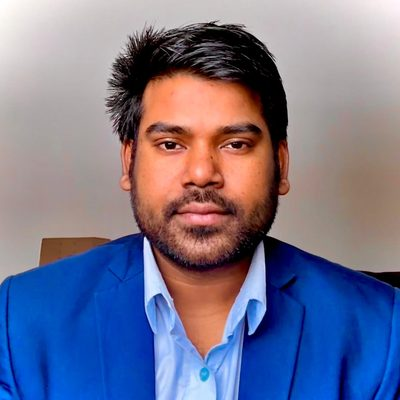
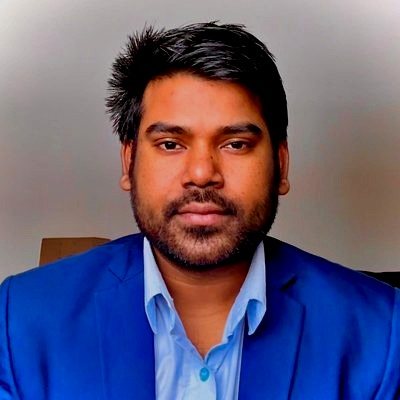
Improve profile photo and remove artificial brightness filter
Reduced exposure on profile.jpg/webp (brightness -20%, contrast +20%, saturation +12%, sharpness +10%) to fix the overexposed look. Removed the CSS brightness(1.18) filter from .av and .av-lg classes that was compounding the issue. Bump version stamp to 202607011428.

diff --git a/404.html b/404.html
@@ -19,7 +19,7 @@
 <link rel="preconnect" href="https://fonts.gstatic.com" crossorigin/>
 <link href="https://fonts.googleapis.com/css2?family=Inter:wght@300;400;500;600&family=Sora:wght@600;700&display=swap" rel="stylesheet"/>
 <link rel="stylesheet" href="https://cdn.jsdelivr.net/npm/@tabler/icons-webfont@3.44.0/dist/tabler-icons.min.css"/>
-<link rel="stylesheet" href="/style.css?v=202606300232"/>
+<link rel="stylesheet" href="/style.css?v=202607011428"/>
 <script>(function(){document.documentElement.setAttribute('data-theme',localStorage.getItem('dk-theme')||'dark');})();</script>
 </head>
 <body>
@@ -161,6 +161,6 @@
   <button class="bnav" id="bnav-more"><i class="ti ti-menu-2"></i><span>More</span></button>
 </nav>
 
-<script src="/main.js?v=202606300232"></script>
+<script src="/main.js?v=202607011428"></script>
 </body>
 </html>

diff --git a/agnicycle/index.html b/agnicycle/index.html
@@ -29,7 +29,7 @@
 <link rel="preconnect" href="https://fonts.gstatic.com" crossorigin/>
 <link href="https://fonts.googleapis.com/css2?family=Inter:wght@300;400;500;600&family=Sora:wght@600;700&display=swap" rel="stylesheet"/>
 <link rel="stylesheet" href="https://cdn.jsdelivr.net/npm/@tabler/icons-webfont@3.44.0/dist/tabler-icons.min.css"/>
-<link rel="stylesheet" href="/style.css?v=202606300232"/>
+<link rel="stylesheet" href="/style.css?v=202607011428"/>
 <script>(function(){document.documentElement.setAttribute('data-theme',localStorage.getItem('dk-theme')||'dark');})();</script>
 </head>
 <body>
@@ -217,6 +217,6 @@
   <button class="bnav" id="bnav-more"><i class="ti ti-menu-2"></i><span>More</span></button>
 </nav>
 
-<script src="/main.js?v=202606300232"></script>
+<script src="/main.js?v=202607011428"></script>
 </body>
 </html>

diff --git a/awards/index.html b/awards/index.html
@@ -29,7 +29,7 @@
 <link rel="preconnect" href="https://fonts.gstatic.com" crossorigin/>
 <link href="https://fonts.googleapis.com/css2?family=Inter:wght@300;400;500;600&family=Sora:wght@600;700&display=swap" rel="stylesheet"/>
 <link rel="stylesheet" href="https://cdn.jsdelivr.net/npm/@tabler/icons-webfont@3.44.0/dist/tabler-icons.min.css"/>
-<link rel="stylesheet" href="/style.css?v=202606300232"/>
+<link rel="stylesheet" href="/style.css?v=202607011428"/>
 <script>(function(){document.documentElement.setAttribute('data-theme',localStorage.getItem('dk-theme')||'dark');})();</script>
 </head>
 <body>
@@ -175,6 +175,6 @@
   <button class="bnav" id="bnav-more"><i class="ti ti-menu-2"></i><span>More</span></button>
 </nav>
 
-<script src="/main.js?v=202606300232"></script>
+<script src="/main.js?v=202607011428"></script>
 </body>
 </html>

diff --git a/collaborate/index.html b/collaborate/index.html
@@ -29,7 +29,7 @@
 <link rel="preconnect" href="https://fonts.gstatic.com" crossorigin/>
 <link href="https://fonts.googleapis.com/css2?family=Inter:wght@300;400;500;600&family=Sora:wght@600;700&display=swap" rel="stylesheet"/>
 <link rel="stylesheet" href="https://cdn.jsdelivr.net/npm/@tabler/icons-webfont@3.44.0/dist/tabler-icons.min.css"/>
-<link rel="stylesheet" href="/style.css?v=202606300232"/>
+<link rel="stylesheet" href="/style.css?v=202607011428"/>
 <script>(function(){document.documentElement.setAttribute('data-theme',localStorage.getItem('dk-theme')||'dark');})();</script>
 </head>
 <body>
@@ -211,6 +211,6 @@
   <button class="bnav" id="bnav-more"><i class="ti ti-menu-2"></i><span>More</span></button>
 </nav>
 
-<script src="/main.js?v=202606300232"></script>
+<script src="/main.js?v=202607011428"></script>
 </body>
 </html>

diff --git a/contact/index.html b/contact/index.html
@@ -29,7 +29,7 @@
 <link rel="preconnect" href="https://fonts.gstatic.com" crossorigin/>
 <link href="https://fonts.googleapis.com/css2?family=Inter:wght@300;400;500;600&family=Sora:wght@600;700&display=swap" rel="stylesheet"/>
 <link rel="stylesheet" href="https://cdn.jsdelivr.net/npm/@tabler/icons-webfont@3.44.0/dist/tabler-icons.min.css"/>
-<link rel="stylesheet" href="/style.css?v=202606300232"/>
+<link rel="stylesheet" href="/style.css?v=202607011428"/>
 <script>(function(){document.documentElement.setAttribute('data-theme',localStorage.getItem('dk-theme')||'dark');})();</script>
 </head>
 <body>
@@ -214,7 +214,7 @@
   <button class="bnav" id="bnav-more"><i class="ti ti-menu-2"></i><span>More</span></button>
 </nav>
 
-<script src="/main.js?v=202606300232"></script>
+<script src="/main.js?v=202607011428"></script>
 <script>
 (function(){
   const form=document.getElementById('contact-form');

diff --git a/experience/index.html b/experience/index.html
@@ -29,7 +29,7 @@
 <link rel="preconnect" href="https://fonts.gstatic.com" crossorigin/>
 <link href="https://fonts.googleapis.com/css2?family=Inter:wght@300;400;500;600&family=Sora:wght@600;700&display=swap" rel="stylesheet"/>
 <link rel="stylesheet" href="https://cdn.jsdelivr.net/npm/@tabler/icons-webfont@3.44.0/dist/tabler-icons.min.css"/>
-<link rel="stylesheet" href="/style.css?v=202606300232"/>
+<link rel="stylesheet" href="/style.css?v=202607011428"/>
 <script>(function(){document.documentElement.setAttribute('data-theme',localStorage.getItem('dk-theme')||'dark');})();</script>
 </head>
 <body>
@@ -223,6 +223,6 @@
   <button class="bnav" id="bnav-more"><i class="ti ti-menu-2"></i><span>More</span></button>
 </nav>
 
-<script src="/main.js?v=202606300232"></script>
+<script src="/main.js?v=202607011428"></script>
 </body>
 </html>

diff --git a/index.html b/index.html
@@ -29,7 +29,7 @@
 <link rel="preconnect" href="https://fonts.gstatic.com" crossorigin/>
 <link href="https://fonts.googleapis.com/css2?family=Inter:wght@300;400;500;600&family=Sora:wght@600;700&display=swap" rel="stylesheet"/>
 <link rel="stylesheet" href="https://cdn.jsdelivr.net/npm/@tabler/icons-webfont@3.44.0/dist/tabler-icons.min.css"/>
-<link rel="stylesheet" href="/style.css?v=202606300232"/>
+<link rel="stylesheet" href="/style.css?v=202607011428"/>
 <script>(function(){document.documentElement.setAttribute('data-theme',localStorage.getItem('dk-theme')||'dark');})();</script>
 <script type="application/ld+json">
 {
@@ -316,7 +316,7 @@
   <button class="bnav" id="bnav-more"><i class="ti ti-menu-2"></i><span>More</span></button>
 </nav>
 
-<script src="/main.js?v=202606300232"></script>
+<script src="/main.js?v=202607011428"></script>
 <script>
 // Research graph interaction (home page only) — mouse + touch
 (function(){

diff --git a/misc/index.html b/misc/index.html
@@ -29,7 +29,7 @@
 <link rel="preconnect" href="https://fonts.gstatic.com" crossorigin/>
 <link href="https://fonts.googleapis.com/css2?family=Inter:wght@300;400;500;600&family=Sora:wght@600;700&display=swap" rel="stylesheet"/>
 <link rel="stylesheet" href="https://cdn.jsdelivr.net/npm/@tabler/icons-webfont@3.44.0/dist/tabler-icons.min.css"/>
-<link rel="stylesheet" href="/style.css?v=202606300232"/>
+<link rel="stylesheet" href="/style.css?v=202607011428"/>
 <script>(function(){document.documentElement.setAttribute('data-theme',localStorage.getItem('dk-theme')||'dark');})();</script>
 </head>
 <body>
@@ -202,6 +202,6 @@
   <button class="bnav" id="bnav-more"><i class="ti ti-menu-2"></i><span>More</span></button>
 </nav>
 
-<script src="/main.js?v=202606300232"></script>
+<script src="/main.js?v=202607011428"></script>
 </body>
 </html>

diff --git a/phd/index.html b/phd/index.html
@@ -29,7 +29,7 @@
 <link rel="preconnect" href="https://fonts.gstatic.com" crossorigin/>
 <link href="https://fonts.googleapis.com/css2?family=Inter:wght@300;400;500;600&family=Sora:wght@600;700&display=swap" rel="stylesheet"/>
 <link rel="stylesheet" href="https://cdn.jsdelivr.net/npm/@tabler/icons-webfont@3.44.0/dist/tabler-icons.min.css"/>
-<link rel="stylesheet" href="/style.css?v=202606300232"/>
+<link rel="stylesheet" href="/style.css?v=202607011428"/>
 <script>(function(){document.documentElement.setAttribute('data-theme',localStorage.getItem('dk-theme')||'dark');})();</script>
 </head>
 <body>
@@ -200,6 +200,6 @@
   <button class="bnav" id="bnav-more"><i class="ti ti-menu-2"></i><span>More</span></button>
 </nav>
 
-<script src="/main.js?v=202606300232"></script>
+<script src="/main.js?v=202607011428"></script>
 </body>
 </html>

diff --git a/projects/index.html b/projects/index.html
@@ -29,7 +29,7 @@
 <link rel="preconnect" href="https://fonts.gstatic.com" crossorigin/>
 <link href="https://fonts.googleapis.com/css2?family=Inter:wght@300;400;500;600&family=Sora:wght@600;700&display=swap" rel="stylesheet"/>
 <link rel="stylesheet" href="https://cdn.jsdelivr.net/npm/@tabler/icons-webfont@3.44.0/dist/tabler-icons.min.css"/>
-<link rel="stylesheet" href="/style.css?v=202606300232"/>
+<link rel="stylesheet" href="/style.css?v=202607011428"/>
 <script>(function(){document.documentElement.setAttribute('data-theme',localStorage.getItem('dk-theme')||'dark');})();</script>
 </head>
 <body>
@@ -203,6 +203,6 @@
   <button class="bnav" id="bnav-more"><i class="ti ti-menu-2"></i><span>More</span></button>
 </nav>
 
-<script src="/main.js?v=202606300232"></script>
+<script src="/main.js?v=202607011428"></script>
 </body>
 </html>

diff --git a/publications/index.html b/publications/index.html
@@ -29,7 +29,7 @@
 <link rel="preconnect" href="https://fonts.gstatic.com" crossorigin/>
 <link href="https://fonts.googleapis.com/css2?family=Inter:wght@300;400;500;600&family=Sora:wght@600;700&display=swap" rel="stylesheet"/>
 <link rel="stylesheet" href="https://cdn.jsdelivr.net/npm/@tabler/icons-webfont@3.44.0/dist/tabler-icons.min.css"/>
-<link rel="stylesheet" href="/style.css?v=202606300232"/>
+<link rel="stylesheet" href="/style.css?v=202607011428"/>
 <script>(function(){document.documentElement.setAttribute('data-theme',localStorage.getItem('dk-theme')||'dark');})();</script>
 </head>
 <body>
@@ -246,6 +246,6 @@
   <button class="bnav" id="bnav-more"><i class="ti ti-menu-2"></i><span>More</span></button>
 </nav>
 
-<script src="/main.js?v=202606300232"></script>
+<script src="/main.js?v=202607011428"></script>
 </body>
 </html>

diff --git a/skills/index.html b/skills/index.html
@@ -29,7 +29,7 @@
 <link rel="preconnect" href="https://fonts.gstatic.com" crossorigin/>
 <link href="https://fonts.googleapis.com/css2?family=Inter:wght@300;400;500;600&family=Sora:wght@600;700&display=swap" rel="stylesheet"/>
 <link rel="stylesheet" href="https://cdn.jsdelivr.net/npm/@tabler/icons-webfont@3.44.0/dist/tabler-icons.min.css"/>
-<link rel="stylesheet" href="/style.css?v=202606300232"/>
+<link rel="stylesheet" href="/style.css?v=202607011428"/>
 <script>(function(){document.documentElement.setAttribute('data-theme',localStorage.getItem('dk-theme')||'dark');})();</script>
 </head>
 <body>
@@ -212,6 +212,6 @@
   <button class="bnav" id="bnav-more"><i class="ti ti-menu-2"></i><span>More</span></button>
 </nav>
 
-<script src="/main.js?v=202606300232"></script>
+<script src="/main.js?v=202607011428"></script>
 </body>
 </html>